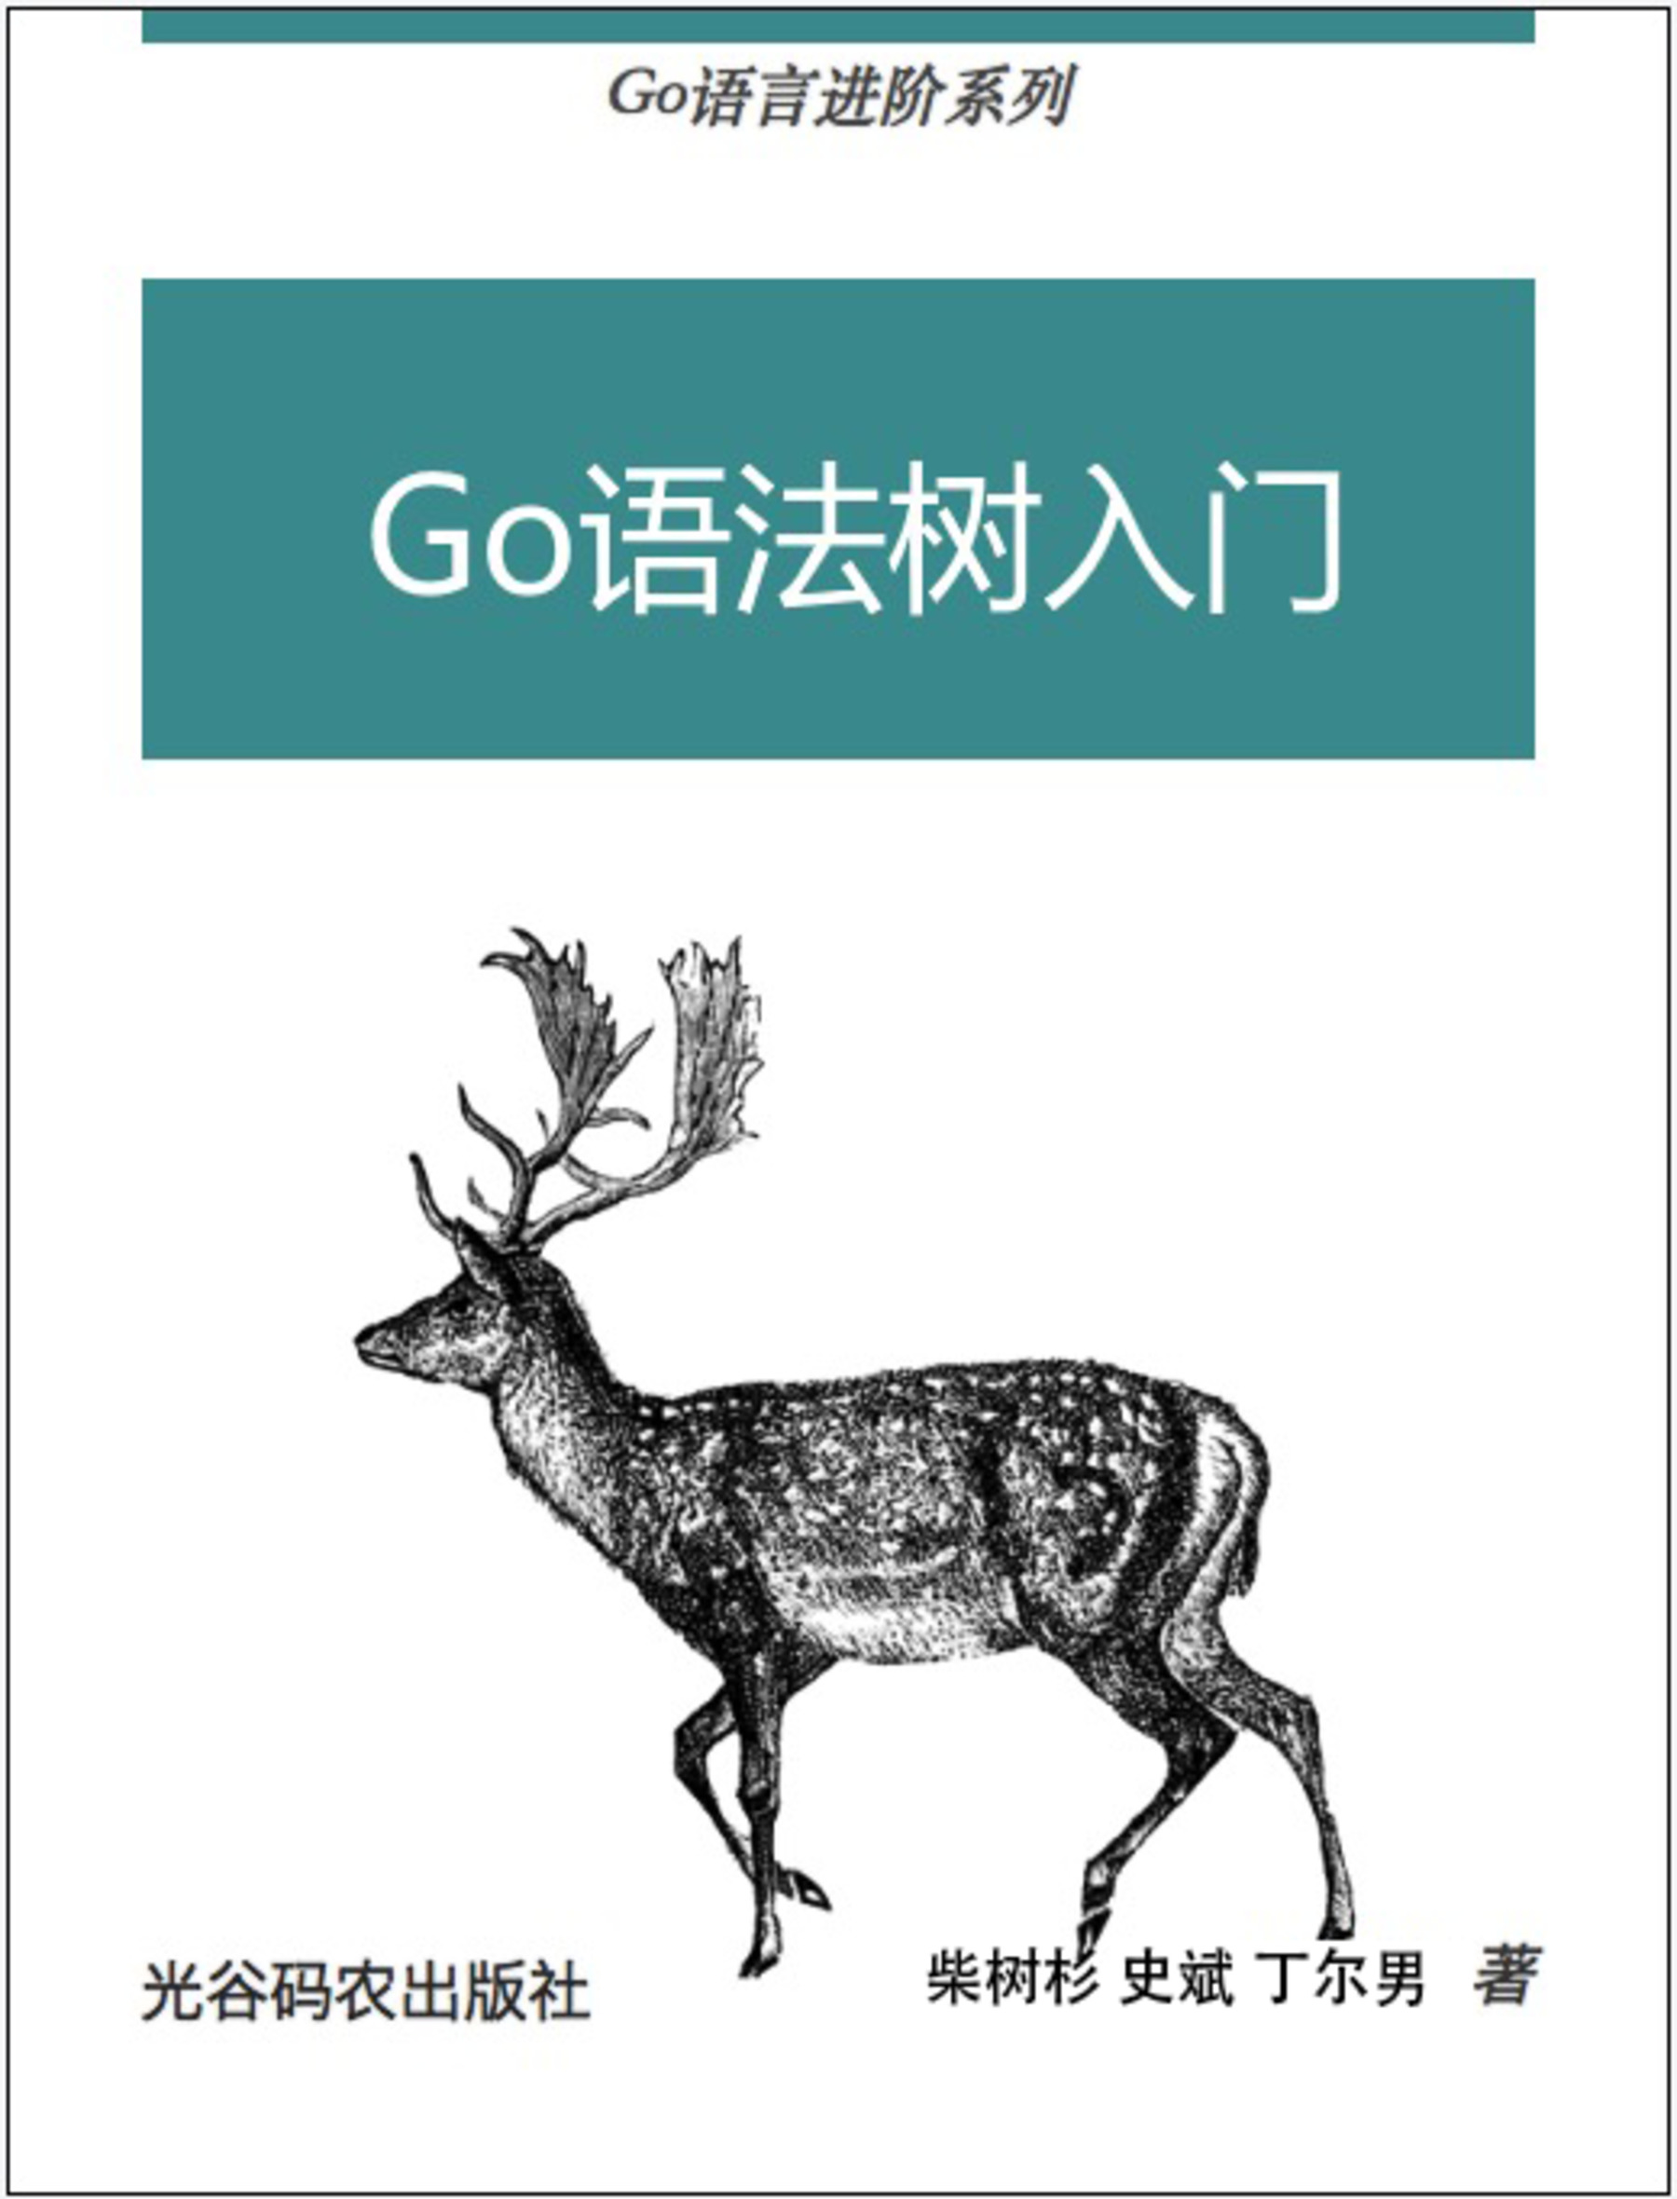
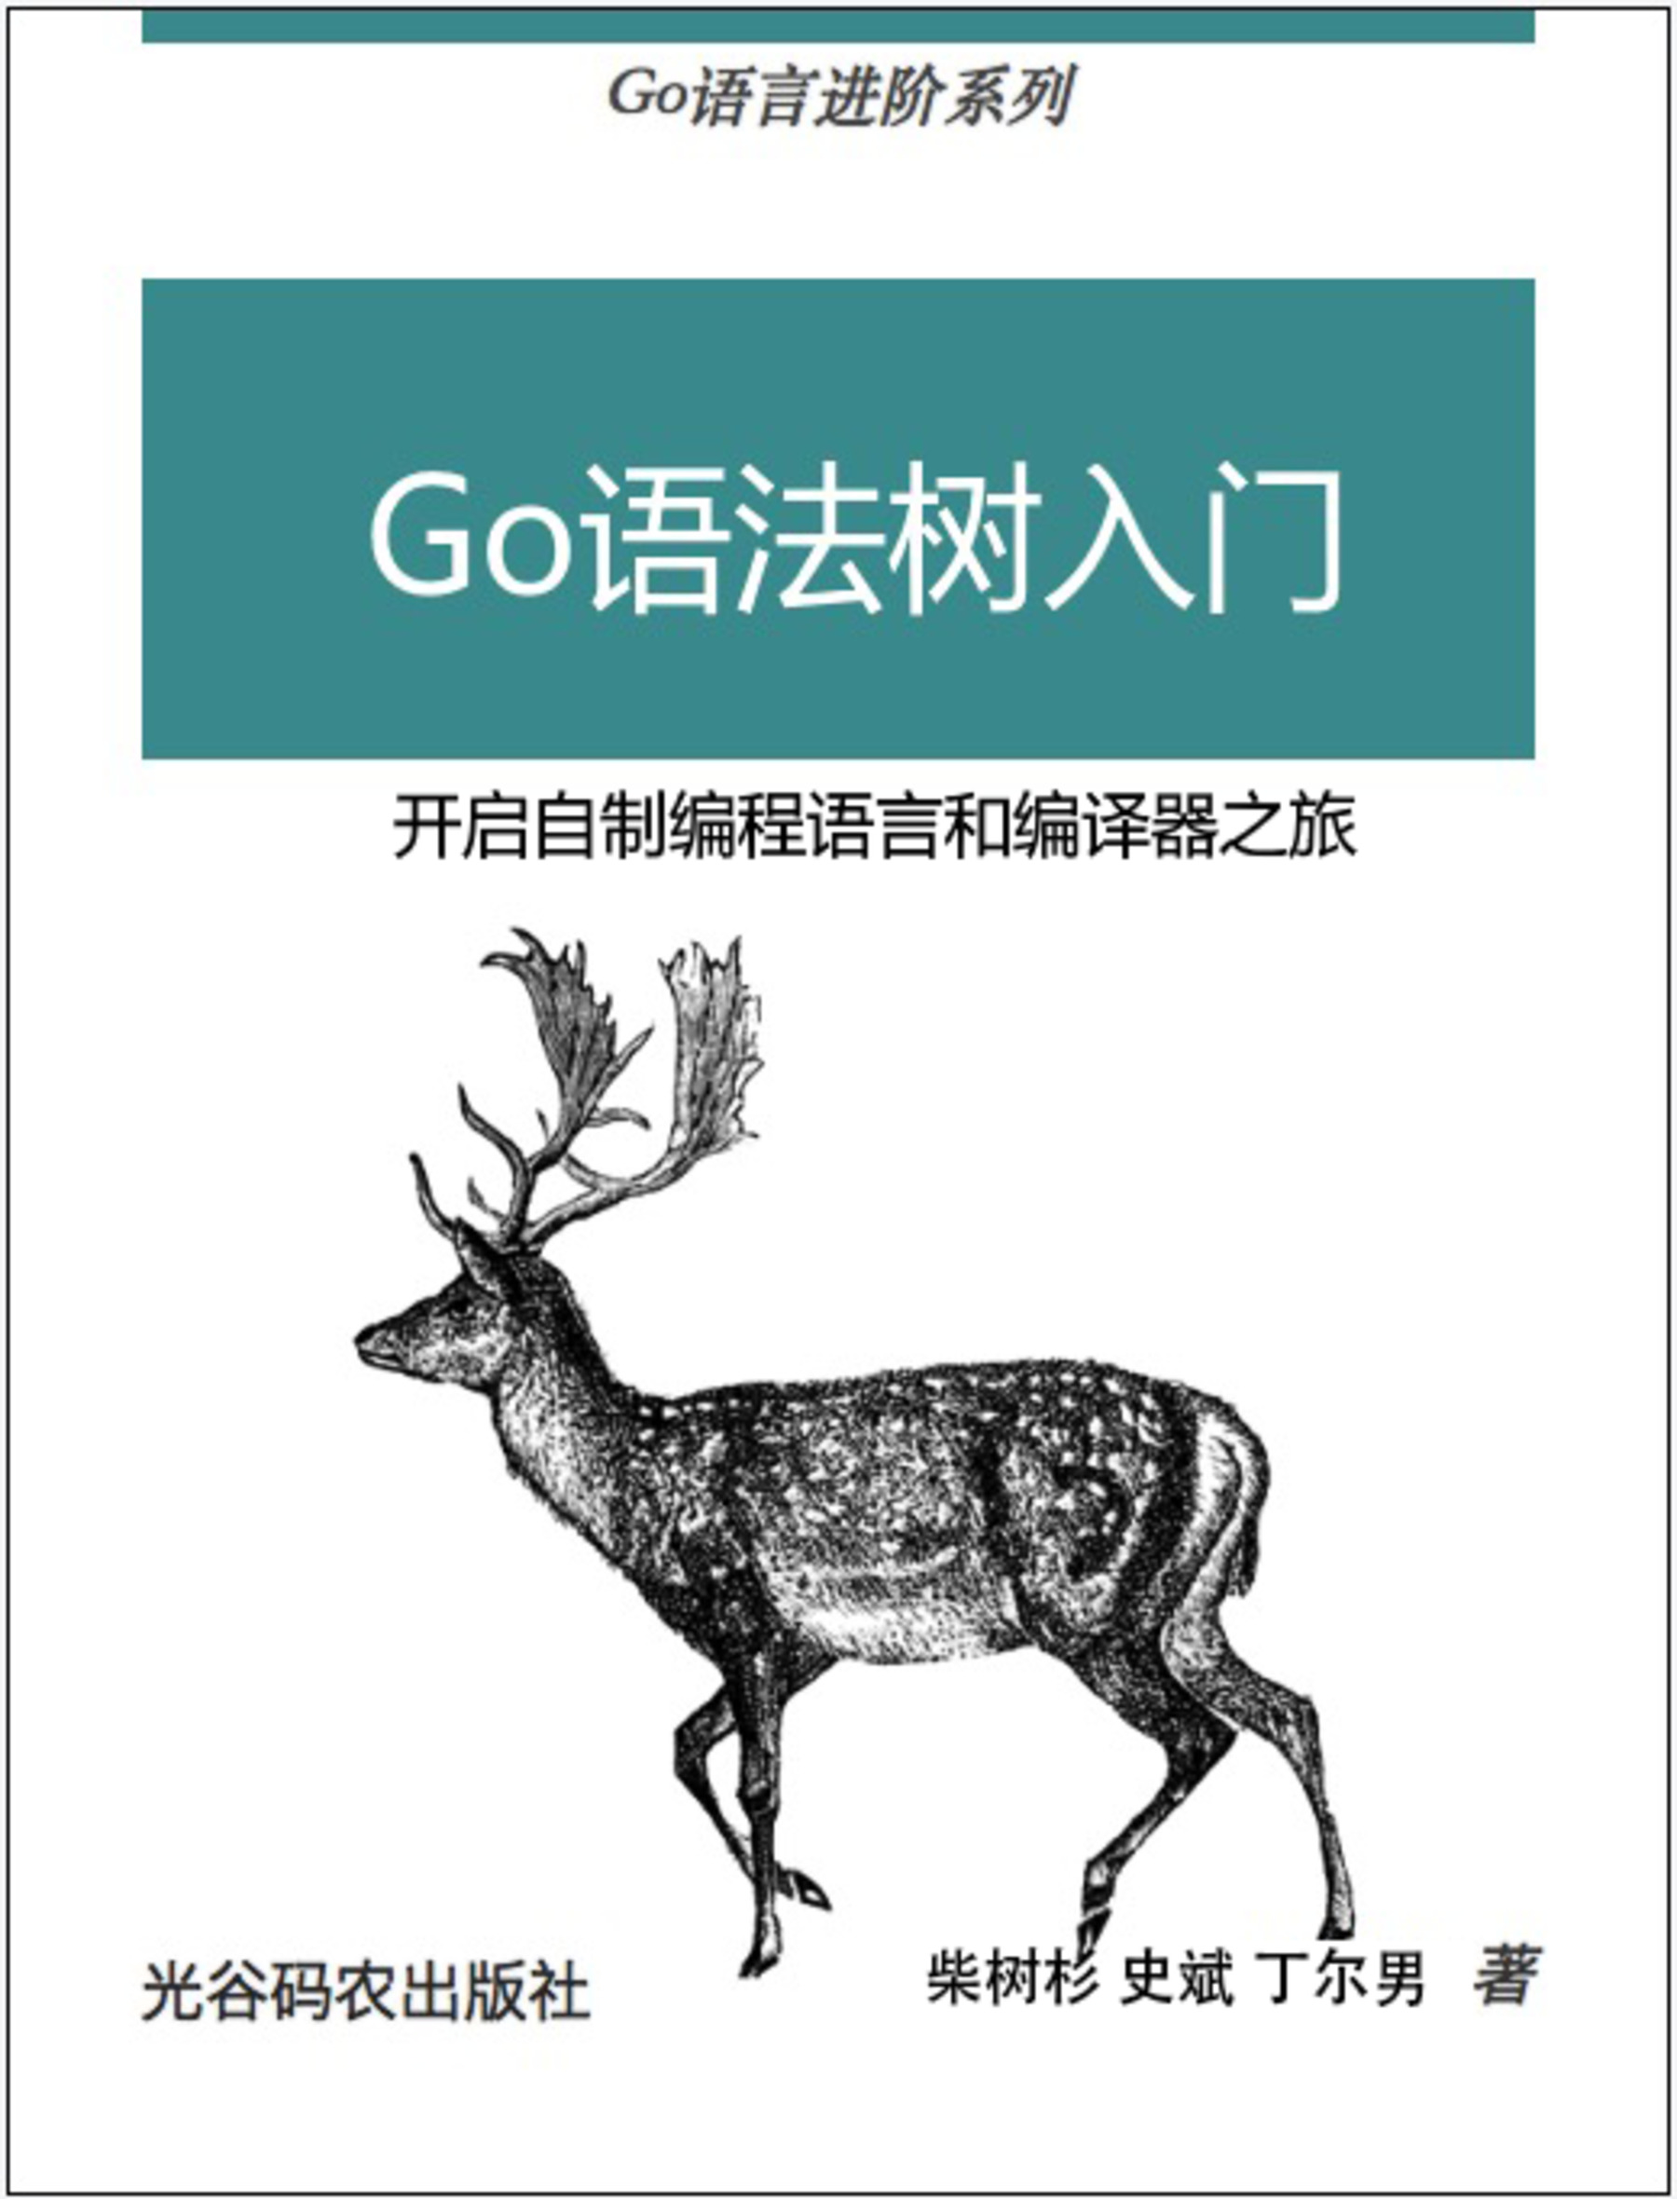
更新副标题

Changed region(s): [[0.2178, 0.3403, 0.8089, 0.4021]]

diff --git a/preface.md b/preface.md
@@ -1,4 +1,4 @@
-# Go语法树入门
+# Go语法树入门——开启自制编程语言和编译器之旅！
 
 Go语法树是Go语言源文件的另一种语义等价的表现形式。而Go语言自带的`go fmt`和`go doc`等命令都是在Go语法树基础之上的分析工具。因此将Go语言程序作为输入数据，从语法树这个维度重新审视Go语言程序，我们将得到创建Go语言本身的技术。Go语法树由标准库的`go/ast`包定义，它是在`go/token`包定义的词法基础之上抽象的语法树结构。本书简单介绍语法树相关包的使用。
 

diff --git a/README.md b/README.md
@@ -1,4 +1,4 @@
-# Go语法树入门
+# Go语法树入门——开启自制编程语言和编译器之旅！
 
 - *Go语言QQ群: 102319854, 1055927514*
 - *光谷码农课堂: https://study.163.com/provider/480000001914454/index.htm*
